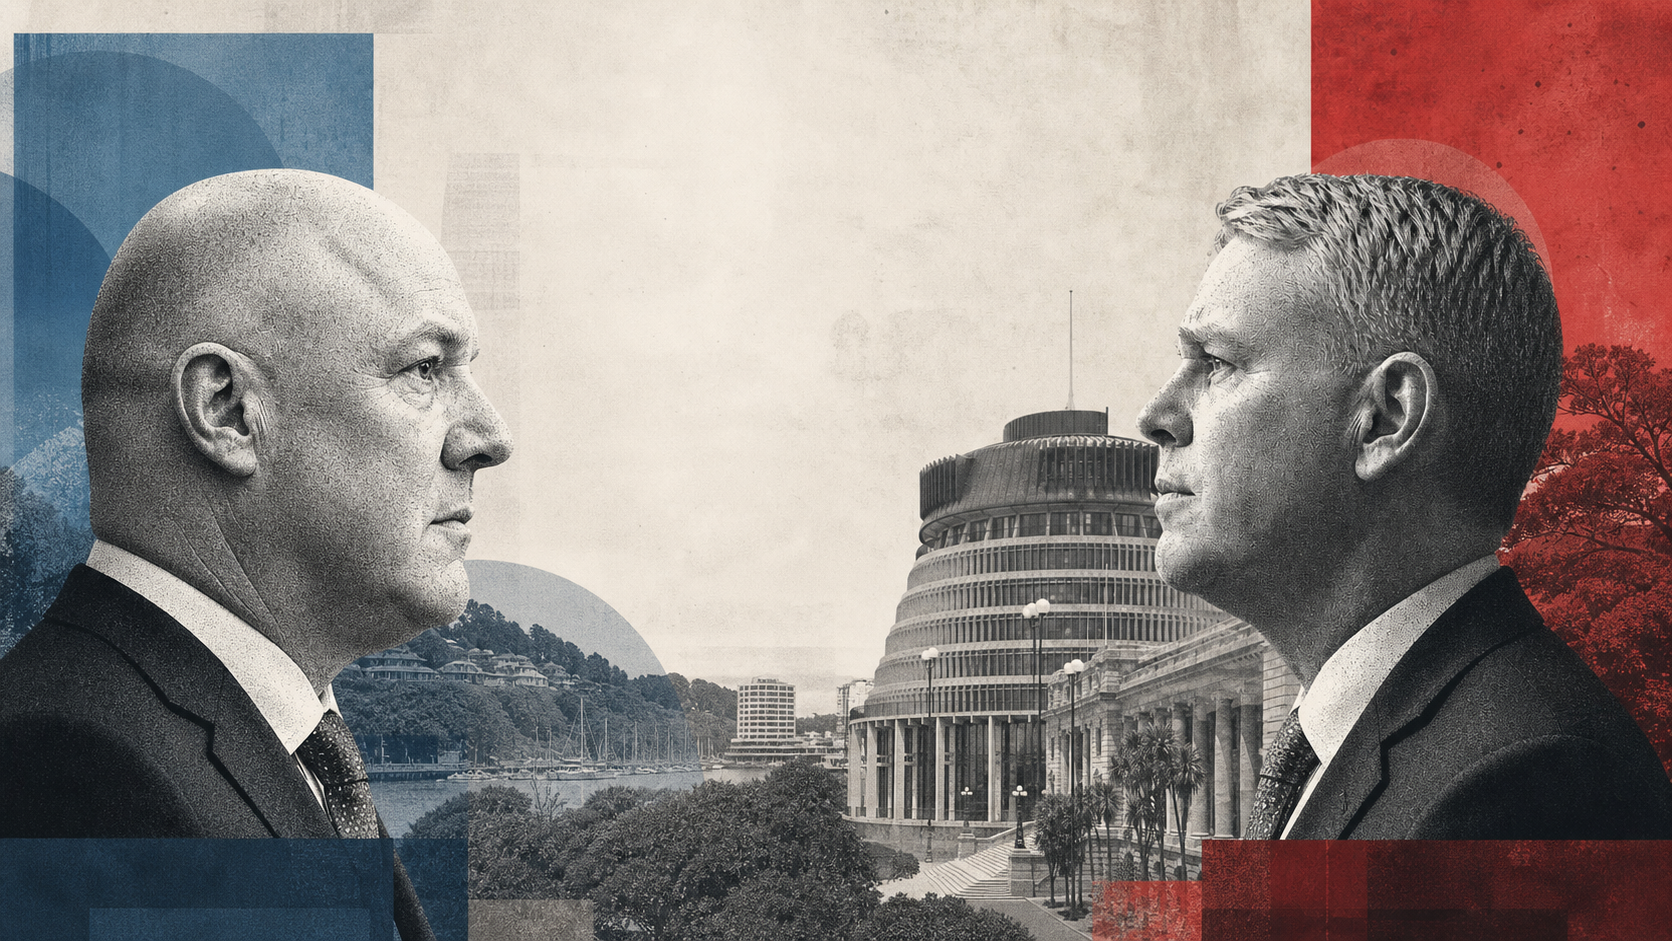
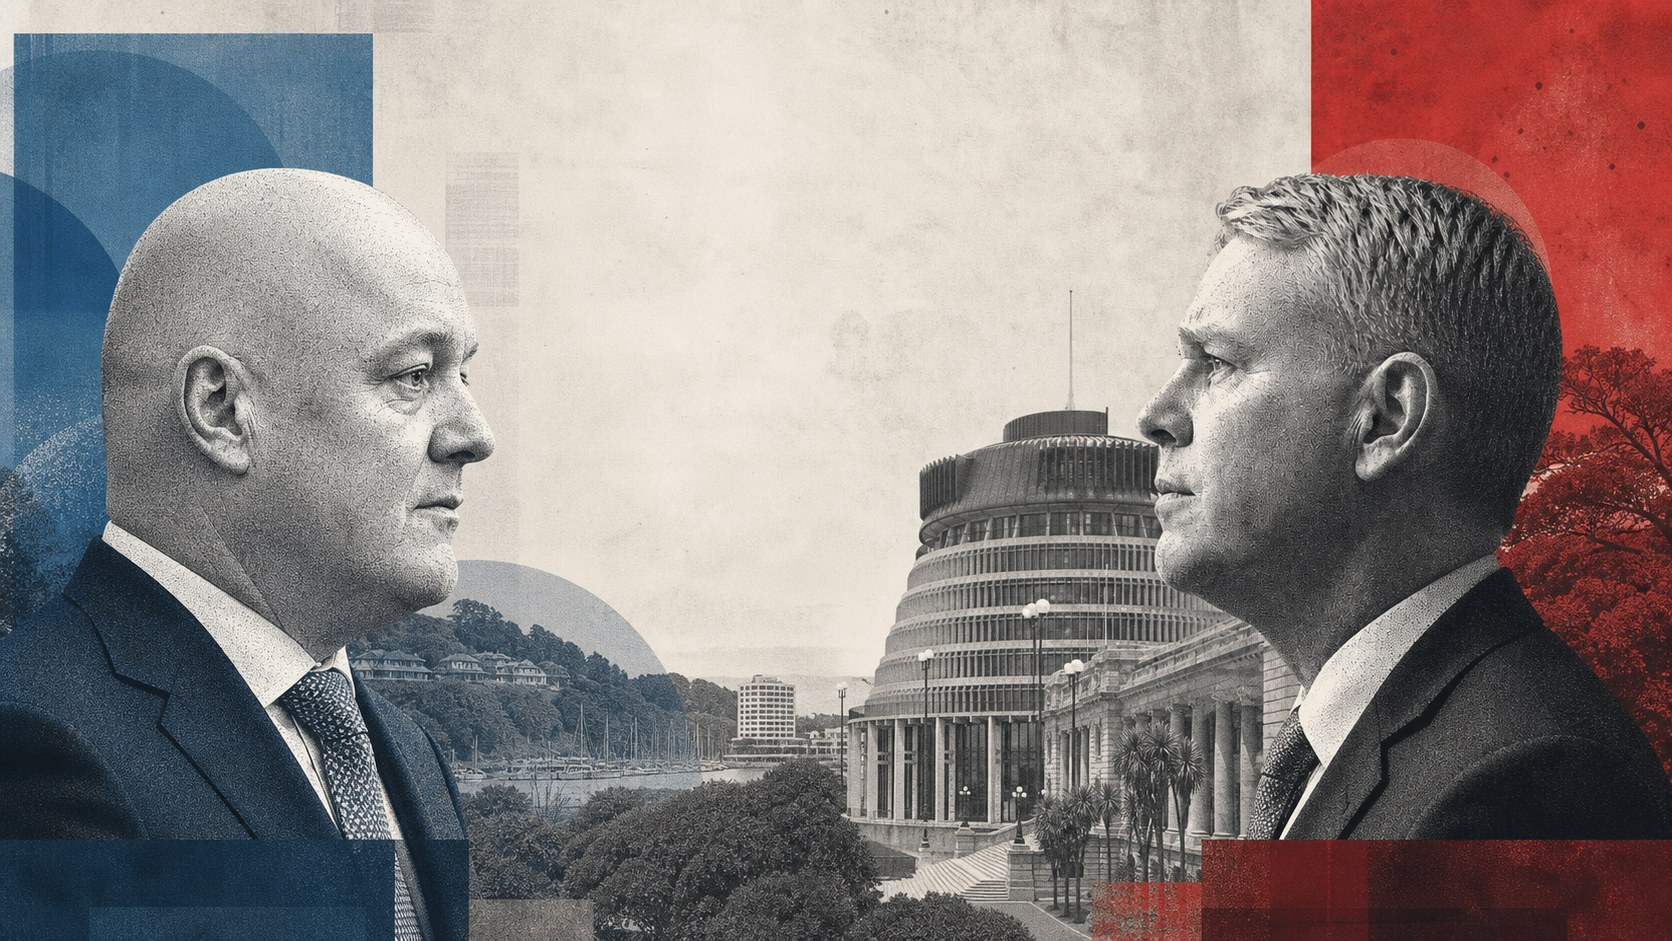
Refine hero scale and Luxon portrait

diff --git a/styles.css b/styles.css
@@ -152,7 +152,7 @@ h3 {
 
 h1 {
   margin-bottom: 0;
-  font-size: clamp(4.2rem, 8vw, 7.5rem);
+  font-size: clamp(3.15rem, 6.1vw, 5.9rem);
   font-weight: 900;
 }
 
@@ -160,7 +160,7 @@ h1 {
   max-width: 660px;
   margin-bottom: 0;
   font-family: Georgia, "Times New Roman", serif;
-  font-size: clamp(1.35rem, 2.5vw, 2.35rem);
+  font-size: clamp(1.1rem, 1.85vw, 1.7rem);
   font-weight: 700;
   line-height: 1.25;
   text-shadow: 0 2px 16px rgba(0, 0, 0, 0.3);
@@ -222,23 +222,23 @@ h1 {
   display: flex;
   flex-wrap: wrap;
   justify-content: center;
-  gap: 16px 24px;
+  gap: 14px 20px;
 }
 
 .topic-button {
   position: relative;
-  min-height: 56px;
+  min-height: 50px;
   display: inline-flex;
   align-items: center;
-  gap: 14px;
-  padding: 12px 18px;
+  gap: 12px;
+  padding: 10px 16px;
   color: #080808;
   background: rgba(255, 255, 255, 0.92);
   border: 0;
   border-radius: 7px;
   box-shadow: 0 6px 0 rgba(0, 0, 0, 0.16), 0 20px 35px rgba(0, 0, 0, 0.28);
   font-family: Georgia, "Times New Roman", serif;
-  font-size: clamp(1.15rem, 2.4vw, 1.75rem);
+  font-size: clamp(1.02rem, 1.85vw, 1.42rem);
   font-weight: 900;
   transition: transform 170ms ease, box-shadow 170ms ease, background 170ms ease;
 }
@@ -272,9 +272,9 @@ h1 {
 }
 
 .topic-icon {
-  width: 34px;
-  height: 34px;
-  flex: 0 0 34px;
+  width: 29px;
+  height: 29px;
+  flex: 0 0 29px;
   fill: none;
   stroke: currentColor;
   stroke-linecap: round;
@@ -530,6 +530,11 @@ footer {
   color: rgba(255, 255, 255, 0.66);
 }
 
+.image-credit {
+  margin-top: -6px;
+  font-size: 0.82rem;
+}
+
 .sr-only {
   position: absolute;
   width: 1px;
@@ -582,12 +587,12 @@ summary:focus-visible {
   }
 
   h1 {
-    font-size: clamp(2.65rem, 12vw, 3.4rem);
+    font-size: clamp(2.35rem, 10.8vw, 3rem);
   }
 
   .hero-copy p {
     max-width: 360px;
-    font-size: 1.08rem;
+    font-size: 1rem;
   }
 
   .party-tabs,
@@ -605,15 +610,15 @@ summary:focus-visible {
   }
 
   .topic-button {
-    min-height: 50px;
-    padding: 10px 13px;
-    font-size: 1.18rem;
+    min-height: 46px;
+    padding: 9px 12px;
+    font-size: 1.04rem;
   }
 
   .topic-icon {
-    width: 28px;
-    height: 28px;
-    flex-basis: 28px;
+    width: 25px;
+    height: 25px;
+    flex-basis: 25px;
   }
 
   .panel-head,

diff --git a/index.html b/index.html
@@ -75,6 +75,10 @@
       <p>
         Static, neutral, official-source tracker. Changed source pages are queued for human review; policy summaries are not automatically rewritten.
       </p>
+      <p class="image-credit">
+        Hero visual is an editorial composite. Luxon likeness references a
+        <a href="https://www.nato.int/en/multimedia/multimedia/photos/2024/07/11/remarks-by-the-nato-secretary-general-and-the-prime-minister-of-new-zealand" target="_blank" rel="noopener">NATO public multimedia photo</a>.
+      </p>
     </footer>
   </body>
 </html>